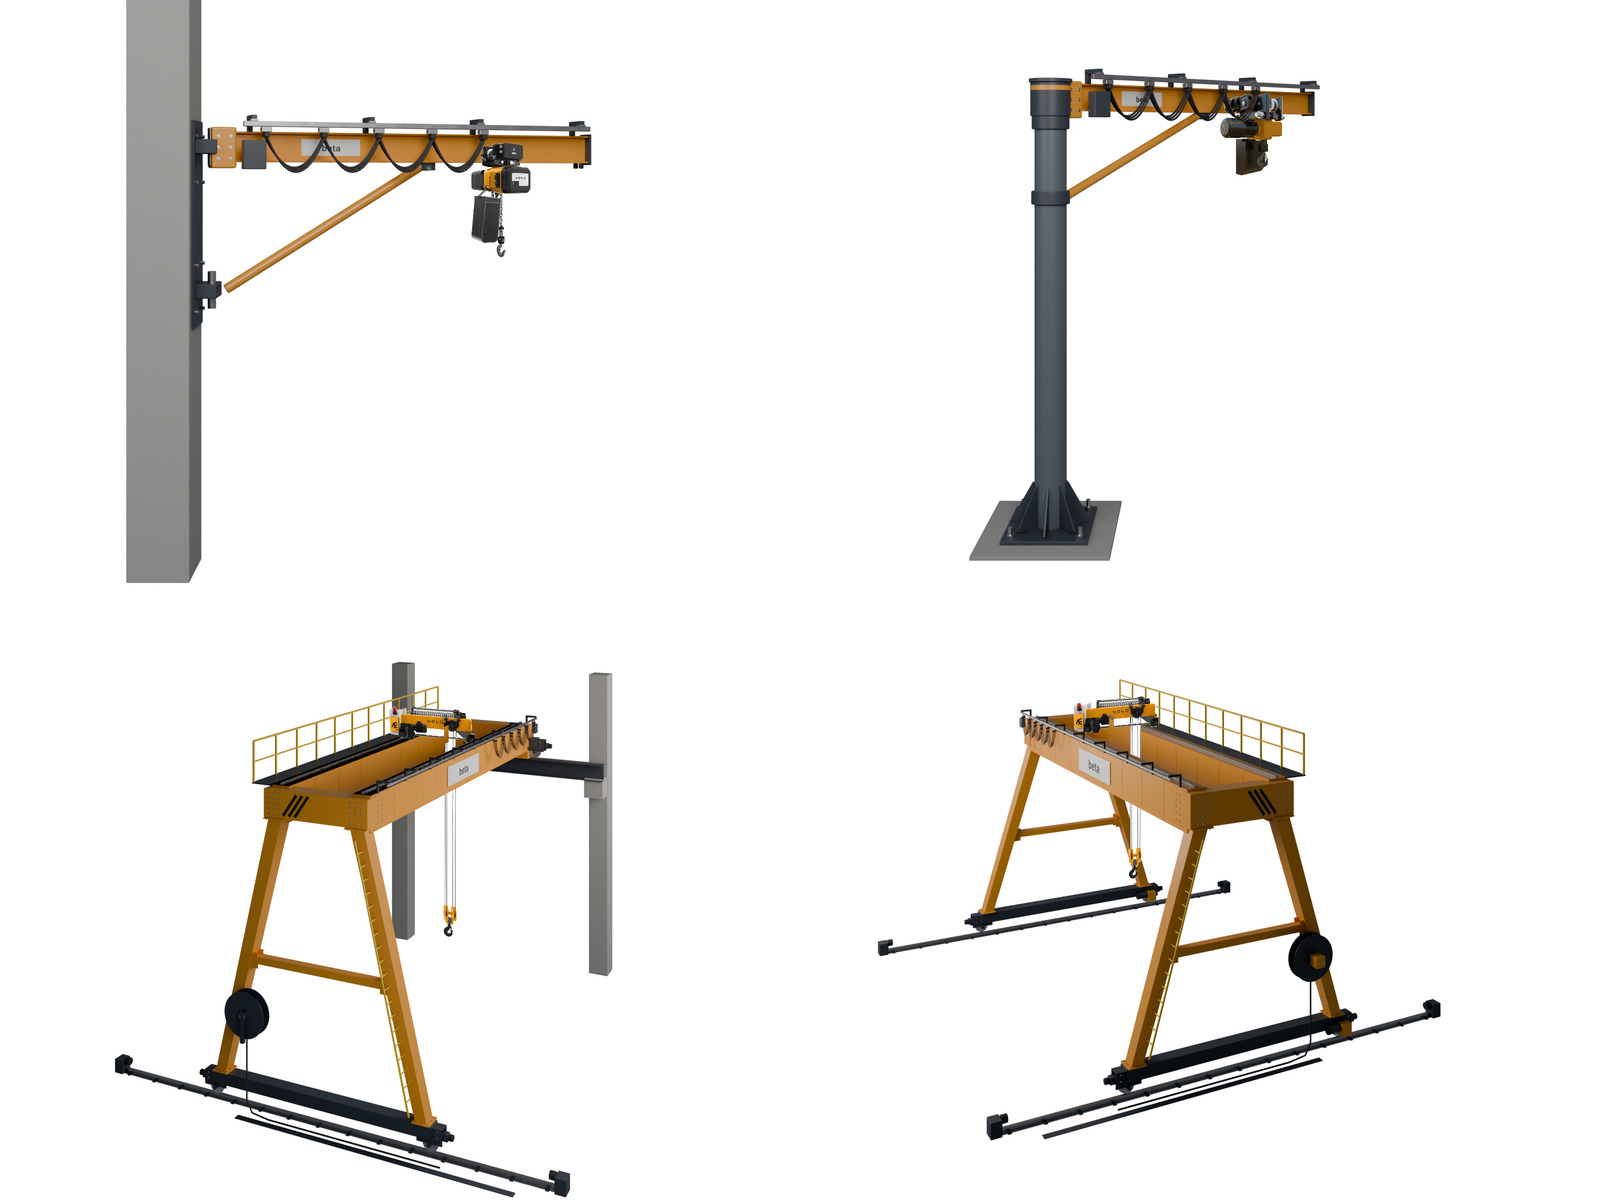
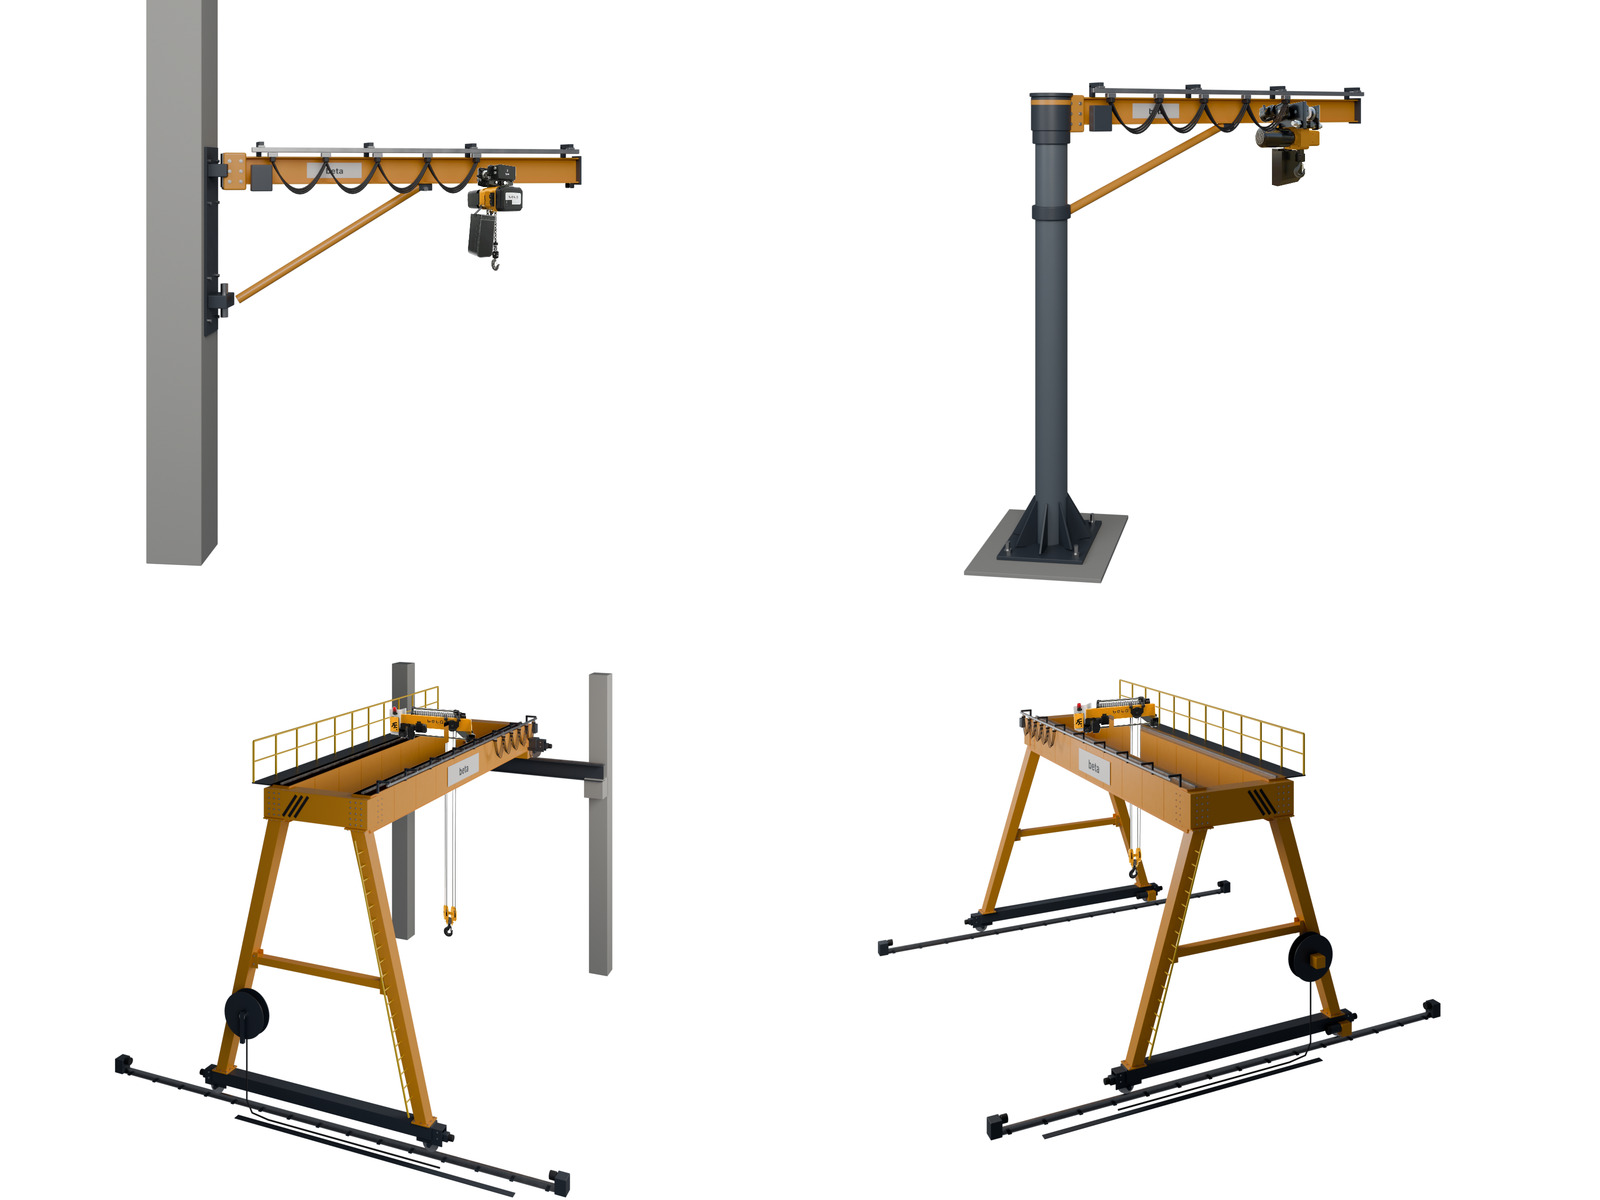
Pergel kamerası makine fotoğrafının çekim açısına göre: sapma + bom hizası
Claude-Session: https://claude.ai/code/session_01BwJWWo6Yo4AefWjfCSnerb

Changed region(s): [[0.0625, 0.0, 0.375, 0.4933], [0.625, 0.0617, 0.875, 0.185], [0.5938, 0.4008, 0.7188, 0.4933]]

diff --git a/kaynak/render_vincler.py b/kaynak/render_vincler.py
@@ -924,6 +924,22 @@ def bos(name, loc=(0, 0, 0), rot=(0, 0, 0)):
     return e
 
 
+def foto_kamera(g, nokta, sapma, yukseklik, uzaklik, hedef, lens):
+    """Kamerayı ürün fotoğrafının çekim açısına koy: `nokta`dan (bom ekseni hizası) bom normaline göre
+    `sapma` derece sola ve `yukseklik` derece yukarı. Fotoğraflarda araba üst kenarı yatay olduğundan
+    kamera bom hizasındadır (yukseklik=0); uzaklaşan bom da böylece yatay görünür. Kadraj `hedef` noktasına mercek kaydırmayla ortalanır."""
+    bpy.context.view_layer.update()
+    m = g.matrix_world
+    H = m @ Vector(nokta)
+    n = (m.to_3x3() @ Vector((0, -1, 0))).normalized()  # bomun kameraya bakan yüzünün normali
+    yon = Matrix.Rotation(math.radians(-sapma), 3, "Z") @ n
+    t = math.radians(yukseklik)
+    cam = H + (yon * math.cos(t) + Vector((0, 0, math.sin(t)))) * uzaklik
+    hedef = Vector(hedef)
+    # yatay bakış hedefin yönünde; düşeyde mercek kaydırma
+    kamera(tuple(cam), (hedef.x, hedef.y, hedef.z), lens=lens, kaydir=True)
+
+
 def bom_logo(M, g, x, zb):
     """Bom gövdesine beyaz zemin üzerine 'beta' plakası."""
     kutu("bom_logozemin", (0.62, 0.004, 0.17), (x, -0.008, zb - 0.15), M["beyaz"], g, bevel=0.0015)
@@ -936,7 +952,8 @@ def sahne_duvar_pergel(M):
     beton = boya("beton_kolon", (0.36, 0.36, 0.345, 1), rough=0.85, var=0.1, bump=0.4)
     kutu("bina_kolon", (0.6, 0.6, 12.0), (-0.3, 0, 6.0), beton, bevel=0.01)
     # dönen grup (mafsal ekseni x=0.12)
-    g = bos("pergel", (0.12, 0, 0), (0, 0, math.radians(20 if YAN else 18)))  # zincirli vinç fotoğrafı ~20° soldan
+    SAPMA, YUKSEKLIK = 22, 0  # zincirli vinç fotoğrafının çekim açısı (soldan, yukarıdan; derece)
+    g = bos("pergel", (0.12, 0, 0), (0, 0, math.radians(SAPMA if YAN else 18)))
     # duvar konsolu (sabit)
     kutu("konsol_plaka", (0.03, 0.42, 2.0), (0.015, 0, 3.4), M["antrasit"], bevel=0.004)
     for z in (4.15, 2.75):
@@ -967,7 +984,7 @@ def sahne_duvar_pergel(M):
     if not BEYAZ:
         palet(M, (4.6, 0.1, 0), 0.35)
     if YAN:
-        kamera((2.0, -10.0, 3.9), (2.0, 0, 2.65), lens=46, kaydir=True)
+        foto_kamera(g, (3.25, 0, zb - 0.15), SAPMA, YUKSEKLIK, 11.5, (2.0, 0.6, 2.7), lens=44)
     else:
         kamera((4.6, -5.6, 2.6), (2.1, 0.3, 3.05), lens=34, dof=9)
     anahtar_isik((4, -9, 8), (2, 0, 2), 1800, boyut=6)
@@ -993,7 +1010,8 @@ def sahne_kolon_pergel(M):
     silindir("kolon", 0.17, H, (0, 0, H / 2 + 0.06), M["gri"], seg=64)
     silindir("kolon_bilezik", 0.20, 0.16, (0, 0, H + 0.06), M["antrasit"], seg=64, bevel=0.01)
     # dönen grup
-    g = bos("pergel", (0, 0, 0), (0, 0, math.radians(45 if YAN else 15)))  # kompakt vinç fotoğrafı ~45° soldan
+    SAPMA, YUKSEKLIK = 40, 0  # kompakt vinç fotoğrafının çekim açısı (soldan, yukarıdan; derece)
+    g = bos("pergel", (0, 0, 0), (0, 0, math.radians(SAPMA if YAN else 15)))
     zb = H + 0.48
     silindir("baslik", 0.215, 0.36, (0, 0, H + 0.30), M["antrasit"], g, seg=64, bevel=0.01)
     silindir("baslik_serit", 0.217, 0.05, (0, 0, H + 0.42), M["turuncu"], g, seg=64)
@@ -1017,7 +1035,7 @@ def sahne_kolon_pergel(M):
     if not BEYAZ:
         palet(M, (4.4, -0.6, 0), 0.3)
     if YAN:
-        kamera((1.6, -10.0, 4.3), (1.6, 0, 2.45), lens=42, kaydir=True)
+        foto_kamera(g, (3.45, 0, zb - 0.15), SAPMA, YUKSEKLIK, 11.5, (1.5, 0.9, 2.45), lens=40)
     else:
         kamera((4.4, -6.6, 2.4), (2.0, 0.3, 2.65), lens=32, dof=9)
     anahtar_isik((3, -9, 8), (1.5, 0, 2), 1800, boyut=6)

diff --git a/README.md b/README.md
@@ -7,7 +7,7 @@ gibi tam yandan görünüşle render edildi (eski 3/4 açı için: GORUNUS=capra
 Vinçler modellenmedi; Beta'nın gerçek ürün fotoğrafları (`kaynak/vinc_foto/`,
 beyaz zemini temizlenmiş) gerçek ölçüsünde eklendi. Sahne kamerası her fotoğrafın çekim
 açısına göre ayarlandı: pergel bomu fotoğraftaki vinçle aynı açıya döndürüldü (duvar tipi
-~20°, kolon tipi ~45°), portallerde kamera araba fotoğrafı gibi ~9° yukarıdan bakar; dikeyler
+~22°, kolon tipi ~40°) ve kamera makineden bu açıyla, bom hizasından bakar (araba üst kenarı yatay), portallerde kamera araba fotoğrafı gibi ~9° yukarıdan bakar; dikeyler
 mercek kaydırmayla dik tutuldu. Arabaların tekerlekleri bom alt flanşına / kiriş rayına oturur:
 
 - Duvar tipi pergel → 2 ton zincirli vinç (`zincirli_vinc_2ton.png`)
